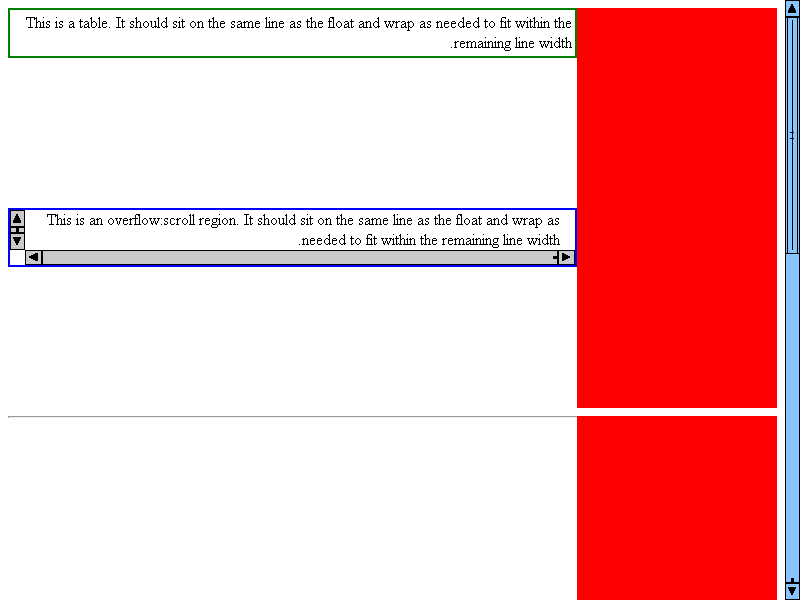
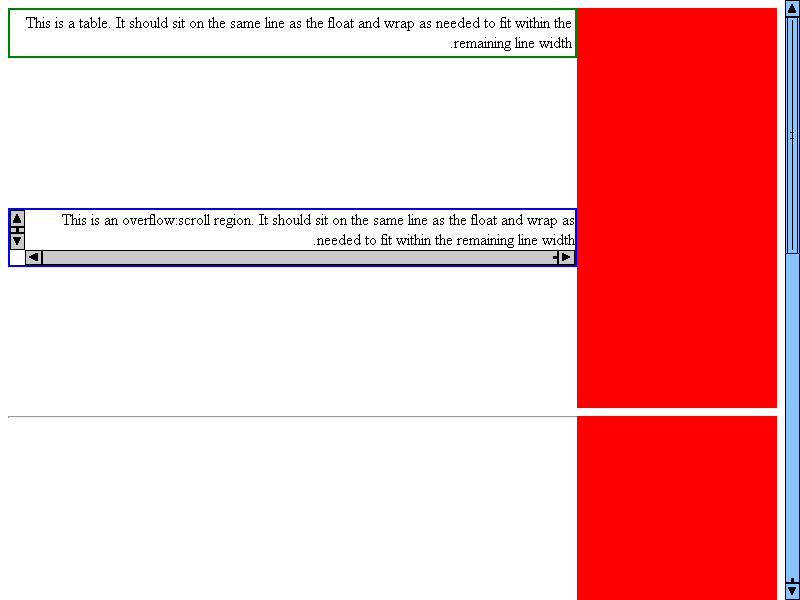
Avoid moving child objects multiple times when vertical scrollbar are shown at the left side. https://bugs.webkit.org/show_bug.cgi?id=91756
Reviewed by Tony Chang.

Source/WebCore:

My r123067 moves the top-left origin of an RTL element right when its vertical
scrollbar is shown at its left side. (That is, r123067 moves all child objects
in the RTL element right.) This change also increases RenderBox::clientLeft()
at the same time, i.e. it also moves child objects right. Furthermore, my r109512
moves positioned objects in an RTL element right at the same time. This makes
WebKit move objects in an RTL element up to three times by the scrollbar width.
(Moving an absolute object right increases the scrollWidth value and it causes
this bug.) This change removes unnecessary code that moves objects right in my
r109512 and RenderBox::clientLeft().

Test: scrollbars/rtl/div-absolute.html
      fast/block/float/026.html
      fast/block/float/028.html
      fast/overflow/unreachable-overflow-rtl-bug.html

* dom/Element.cpp:
(WebCore::Element::clientLeft): Increase clientLeft value by the width of a vertical scrollbar as written in the CSSOM specification.
* rendering/RenderBlock.cpp:
(WebCore::RenderBlock::addOverflowFromPositionedObjects): Removed unnecessary code.
(WebCore::RenderBlock::determineLogicalLeftPositionForChild): Removed unnecessary code.
* rendering/RenderBox.h:
(WebCore::RenderBox::clientLeft): Removed unnecessary code.

LayoutTests:

This change adds a test that compares CSSOM properties of an RTL element which
includes positioned objects with the CSSOM properties of an LTR one. This change
[…]

Changed region(s): [[0.0625, 0.36, 0.7188, 0.42]]

diff --git a/LayoutTests/scrollbars/rtl/div-absolute.html b/LayoutTests/scrollbars/rtl/div-absolute.html
@@ -1,0 +1,34 @@
+<!DOCTYPE html>
+<html>
+<head>
+<title>Bug 91756</title>
+<script src="../../fast/js/resources/js-test-pre.js"></script>
+<style>
+div.outer { overflow: auto; width: 100px; position: relative; height: 100px; border: solid; }
+div.inner { position: absolute; top: 250px; }
+</style>
+</head>
+<body>
+<div id="outerLTR" class="outer"><div id="innerLTR" class="inner" style="left: 200px;">foo</div></div>
+<div id="outerRTL" class="outer" style="direction: rtl;"><div id="innerRTL" class="inner" style="right: 200px;">foo</div>
+</div>
+<script type="text/javascript">
+description('Test if the widths of RTL elements are the same as the widths of the LTR elements when they include absolutely-positioned children.');
+
+debug('Verify the widths of the outer RTL element are the same as the widths of the outer LTR element.');
+var outerLTR = document.getElementById('outerLTR');
+var outerRTL = document.getElementById('outerRTL');
+shouldBeTrue('outerLTR.offsetWidth == outerRTL.offsetWidth');
+shouldBeTrue('outerLTR.clientWidth == outerRTL.clientWidth');
+shouldBeTrue('outerLTR.scrollWidth ==  outerRTL.scrollWidth');
+
+debug('Verify the widths of the inner RTL element are the same as the widths of the inner LTR element.');
+var innerLTR = document.getElementById('innerLTR');
+var innerRTL = document.getElementById('innerRTL');
+shouldBeTrue('innerLTR.offsetWidth == innerRTL.offsetWidth');
+shouldBeTrue('innerLTR.clientWidth == innerRTL.clientWidth');
+shouldBeTrue('innerLTR.scrollWidth ==  innerRTL.scrollWidth');
+</script>
+<script src="../../fast/js/resources/js-test-post.js"></script>
+</body>
+</html>

diff --git a/LayoutTests/fast/events/offsetX-offsetY.html b/LayoutTests/fast/events/offsetX-offsetY.html
@@ -76,8 +76,8 @@
       var content = document.getElementById('overflow-contents');
       positions = sumPositions(content);
       var inside = document.getElementById('inside-overflow');
-      var borderLeft = 2;
-      clientX = positions.offsetLeft + borderLeft + content.clientWidth - inside.clientWidth - window.scrollX + offsetX;
+      var overflow = document.getElementById('overflow');
+      clientX = positions.offsetLeft + overflow.clientLeft + content.clientWidth - inside.clientWidth - window.scrollX + offsetX;
       dispatchEvent(clientX, clientY, 'inside-overflow', offsetX, offsetY);
 
       offsetX = 11;

diff --git a/Source/WebCore/rendering/RenderBlock.cpp b/Source/WebCore/rendering/RenderBlock.cpp
@@ -1669,12 +1669,8 @@ void RenderBlock::addOverflowFromPositionedObjects()
         positionedObject = *it;
         
         // Fixed positioned elements don't contribute to layout overflow, since they don't scroll with the content.
-        if (positionedObject->style()->position() != FixedPosition) {
-            int x = positionedObject->x();
-            if (style()->shouldPlaceBlockDirectionScrollbarOnLogicalLeft())
-                x -= verticalScrollbarWidth();
-            addOverflowFromChild(positionedObject, IntSize(x, positionedObject->y()));
-        }
+        if (positionedObject->style()->position() != FixedPosition)
+            addOverflowFromChild(positionedObject, IntSize(positionedObject->x(), positionedObject->y()));
     }
 }
 
@@ -2208,8 +2204,6 @@ LayoutUnit RenderBlock::computeStartPositionDeltaForChildAvoidingFloats(const Re
 void RenderBlock::determineLogicalLeftPositionForChild(RenderBox* child)
 {
     LayoutUnit startPosition = borderStart() + paddingStart();
-    if (style()->shouldPlaceBlockDirectionScrollbarOnLogicalLeft())
-        startPosition -= verticalScrollbarWidth();
     LayoutUnit totalAvailableLogicalWidth = borderAndPaddingLogicalWidth() + availableLogicalWidth();
 
     // Add in our start margin.

diff --git a/Source/WebCore/dom/Element.cpp b/Source/WebCore/dom/Element.cpp
@@ -412,8 +412,12 @@ int Element::clientLeft()
 {
     document()->updateLayoutIgnorePendingStylesheets();
 
-    if (RenderBox* renderer = renderBox())
-        return adjustForAbsoluteZoom(roundToInt(renderer->clientLeft()), renderer);
+    if (RenderBox* renderer = renderBox()) {
+        LayoutUnit clientLeft = renderer->clientLeft();
+        if (renderer->style() && renderer->style()->shouldPlaceBlockDirectionScrollbarOnLogicalLeft())
+            clientLeft += renderer->verticalScrollbarWidth();
+        return adjustForAbsoluteZoom(roundToInt(clientLeft), renderer);
+    }
     return 0;
 }
 

diff --git a/Source/WebCore/rendering/RenderBox.h b/Source/WebCore/rendering/RenderBox.h
@@ -197,7 +197,7 @@ public:
 
     // More IE extensions.  clientWidth and clientHeight represent the interior of an object
     // excluding border and scrollbar.  clientLeft/Top are just the borderLeftWidth and borderTopWidth.
-    LayoutUnit clientLeft() const { return borderLeft() + (style()->shouldPlaceBlockDirectionScrollbarOnLogicalLeft() ? verticalScrollbarWidth() : 0); }
+    LayoutUnit clientLeft() const { return borderLeft(); }
     LayoutUnit clientTop() const { return borderTop(); }
     LayoutUnit clientWidth() const;
     LayoutUnit clientHeight() const;
